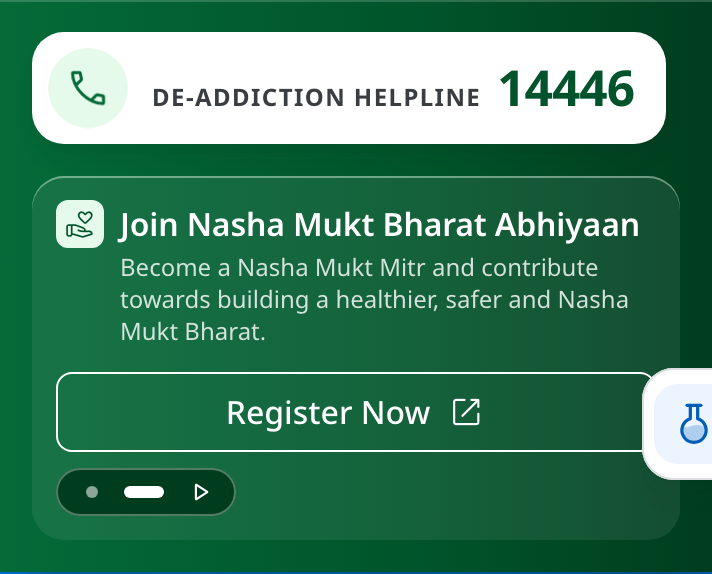
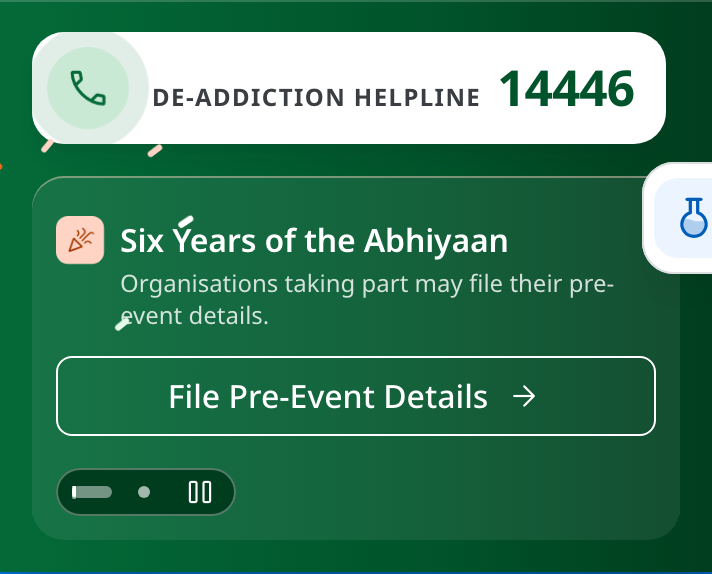
ds(nmba): sync with main, and the new option gets the short name main now requires
`ExplorationOption.label` became REQUIRED on main while this branch was open (the
option bar and the tabs want a shorter string than the panel headline). Local
typecheck passed here only because this worktree was cut before that landed —
which is the argument for the second sync the branch rule asks for, the one
before the PR rather than at the start.

"Number Loudest", not "The Number": the field's own rule is that the FIRST word
must be the thing that makes the option different, and every option in this
module has a number in it. What distinguishes this one is its size.

Re-verified against main's `SitePageHeader` and `ExplorationViewer` changes:
150px at 1440, 286px at 390, the dialog opens and Escape closes it, no console
errors, no horizontal scroll. Full `npm run ci` 38/38, build included.

diff --git a/apps/hub/src/lib/explorations/registry.ts b/apps/hub/src/lib/explorations/registry.ts
@@ -362,6 +362,9 @@ export const EXPLORATIONS: readonly ExplorationSurface[] = [
           {
             id: "standing",
             title: "The number leads",
+            /* Not "The Number" — the distinguishing thing is its SIZE, not that
+               a number is present. Every option in this module has one. */
+            label: "Number Loudest",
             summary:
               "The handoff at 57913:17152, built — the helpline on the trailing edge at display scale, one leading mark slot the two offers share, and the pager wearing the glass card's own material.",
             status: "proposed",
